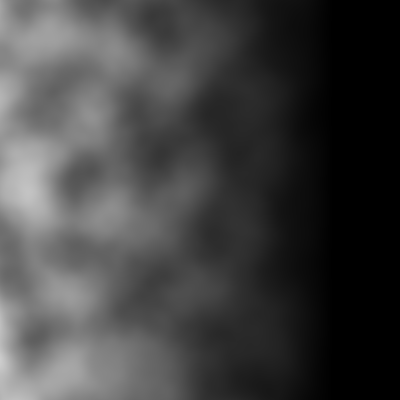
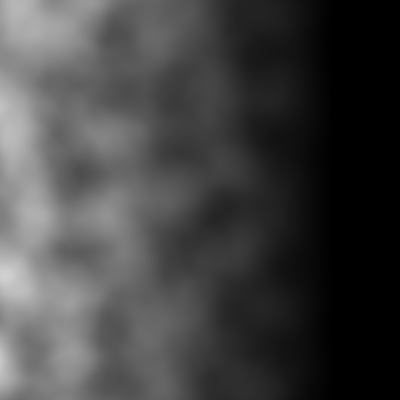
tweaks

diff --git a/lib/erosion2/cell/waterCell.js b/lib/erosion2/cell/waterCell.js
@@ -2,13 +2,14 @@ var _ = require('lodash');
 
 module.exports = function(cell, waterFreq, waterAmount, neighborWaterAmount) {
     if (cell.terrain.random(cell) <= waterFreq) {
-        cell.water += waterAmount;
+        var scale = Math.max(Math.random(), Math.random());
+        cell.water += waterAmount * scale;
         if (neighborWaterAmount) {
             var ns = cell.neighbors();
             ns.forEach(function(n) {
                 if (!(n.meta === 'absent')) {
-                    n.water2 += neighborWaterAmount;
-                    if (neighborWaterAmount >= 1) {
+                    n.water2 += neighborWaterAmount * scale;
+                    if (neighborWaterAmount * scale >= 1) {
                         n.neighbors().forEach(function(nn) {
                             if (nn === cell) {
                                 return;

diff --git a/test_scripts/testShorelineErosionNoWorker.js b/test_scripts/testShorelineErosionNoWorker.js
@@ -25,11 +25,11 @@ shoreline(400, 400)
                 script: erodeScript,
                 sedDissolve: 0.125,
                 maxSaturation: 0.5,
-                waterAmount: 2,
-                neighborWaterAmount: 1.5,
-                waterFreq: 0.02,
+                waterAmount: 4,
+                neighborWaterAmount: 2.5,
+                waterFreq: 1/30,
                 evapRate: 0.666,
-                reps: 100,
+                reps: 200,
                 distance: 1,
                 noisy: true
             })
